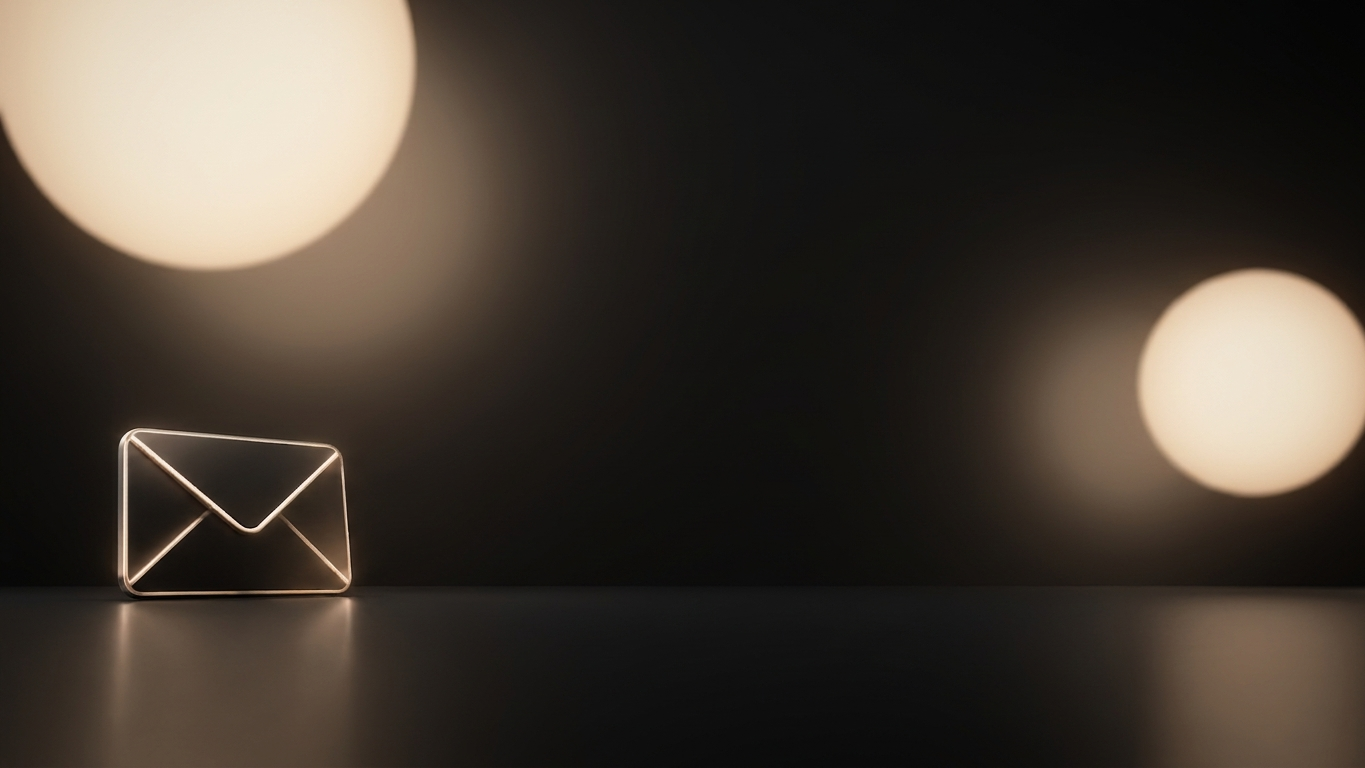
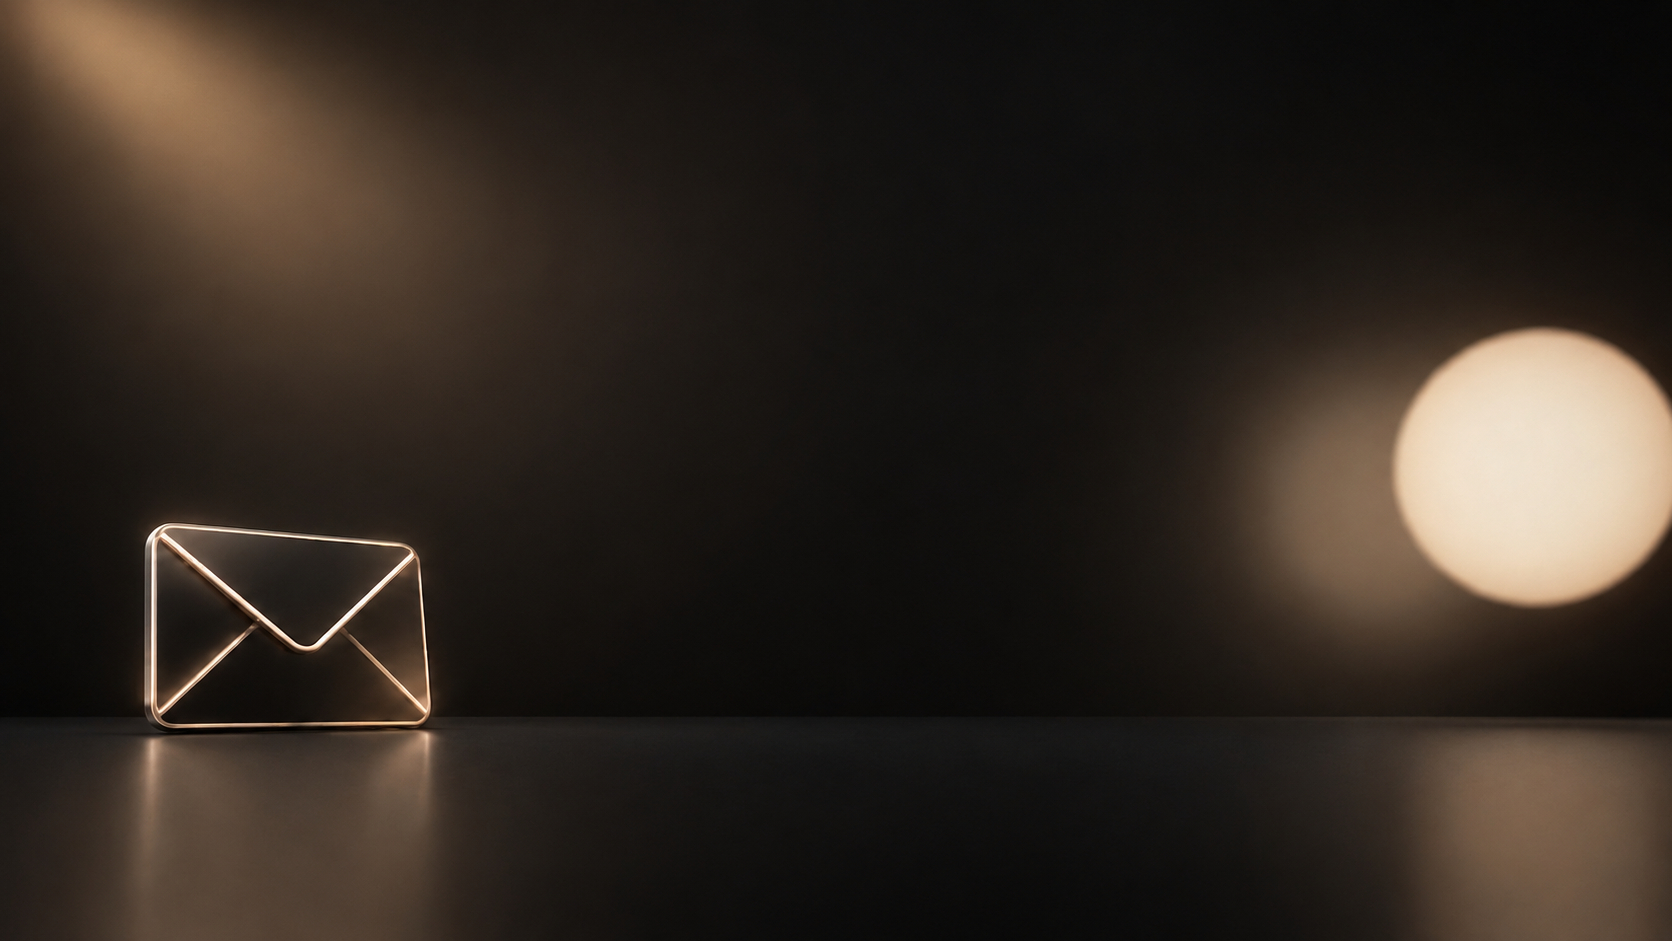
improve form 2

Changed region(s): [[0.0, 0.0, 0.4, 0.7188], [0.0923, 0.6875, 0.2769, 0.7812], [0.8923, 0.625, 0.9538, 0.6562]]

diff --git a/css/style.css b/css/style.css
@@ -171,9 +171,9 @@ main section span {
 }
 
 main section .description {
-    max-width: 60%;
+    max-width: 80%;
     font-family:Arial, Helvetica, sans-serif;
-    font-size: 1.5rem;
+    font-size: 1.3rem;
     animation: fadeInLeft 0.7s ease-out forwards;
 }
 
@@ -224,7 +224,7 @@ form {
     display: flex;
     flex-wrap: wrap;
     max-width: 60vh;
-    background-color: rgba(128, 128, 128, 0.445);
+    background-color: rgba(0, 0, 0, 0.445);
     border-radius: 2rem;
     border: 1px solid var(--color-buttons);
     padding: 2rem;
@@ -246,7 +246,7 @@ form h2 {
 form h2::after {
     content: "";
     display: block;
-    width: 50px;
+    width: 200px;
     height: 2px;
     background: var(--linear-gradients);
     margin-top: 0.5rem;
@@ -256,14 +256,18 @@ form input, form textarea {
     flex: 1 1 calc(50% - 0.5rem);
     border: 1px solid var(--color-buttons);
     border-radius: 0.5rem;
-    background-color: rgba(128, 128, 128, 0.2);
-    color: var(--color-buttons);
+    background-color: rgba(0, 0, 0, 0.4);
+    color: white;
     padding: 1rem;
+}
+
+form input::placeholder, form textarea::placeholder {
+    color: beige;
 }
 
 form textarea {
     line-height: 1.5;
-    min-height: calc(1.5em * 4);
+    min-height: calc(1.5em * 3);
 }
 
 input[type="checkbox"] {
@@ -275,7 +279,7 @@ input[type="checkbox"] {
     display: flex;
     justify-content: center;
     width: 100%;
-    gap: 1rem;
+    gap: 4rem;
 }
 
 button {

diff --git a/index.html b/index.html
@@ -42,7 +42,7 @@
         <section id="contact">
             <div class="left">
                 <p class="intro-text">POSAT EN CONTACTE</p>
-                <p class="nom">Conta<span>cto</span></p>
+                <p class="nom">Conta<span>cte</span></p>
                 <p class="description">Tens alguna pregunta, proposta o simplement vols saber més sobre mi? Escriu-me!
                 </p>
             </div>
